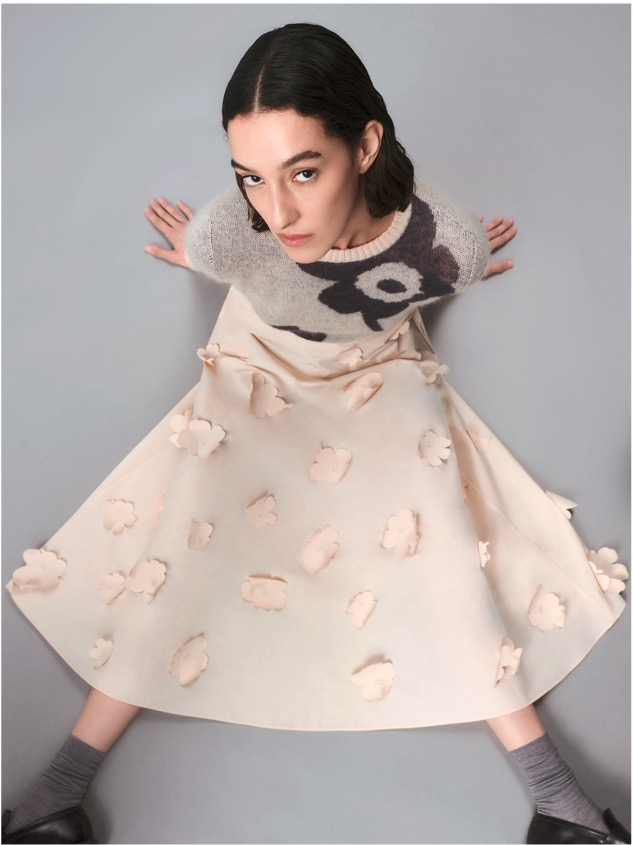
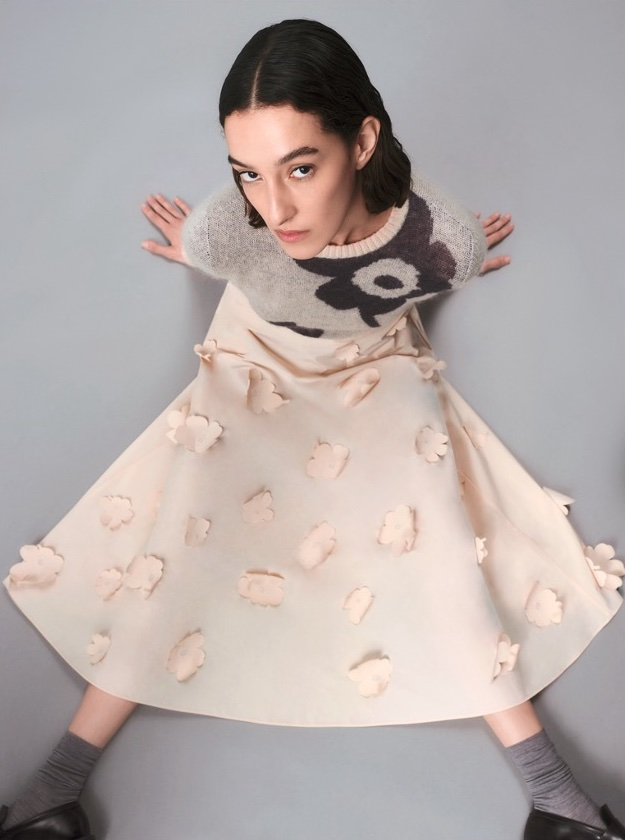
image grid

diff --git a/client/src/components/LookBook/ProductSection.tsx b/client/src/components/LookBook/ProductSection.tsx
@@ -5,28 +5,43 @@ import Image from 'next/image';
 import type { Product } from '@/context/ProductContext';
 import type BrandImage from '../../../types/BrandImage';
 import ImageGrid from './ImageGrid';
+import Heading from '../basic/Heading';
 
 type ProductSectionProps = {
   product: Product;
   images: BrandImage[];
+  headingText?: string;
+  paragraphText?: string;
 }
 
-const ProductSection: React.FC<ProductSectionProps> = ({ product, images }) => {
+const ProductSection: React.FC<ProductSectionProps> = ({ product, images, headingText, paragraphText }) => {
   return (
-    <section className={`lookbook-product-${product.productId} flex flex-col w-full bg-red-300 h-[calc(100vh-350px)]`}>
+    <section className={`lookbook-product-${product.productId} flex flex-col w-full h-[calc(100vh-250px)]`}>
       <div className="lookbook-content-rows flex flex-col md:flex-row w-full h-full">
         <div className="lookbook-content-left flex flex-1 items-center justify-center">
           <div className="flex flex-col w-full h-full">
-            <div className="flex flex-col" style={{ flexGrow: 7 }}>
+            <div className="flex flex-col" style={{ flexGrow: 8 }}>
               <ImageGrid images={images} />
             </div>
-            <div className="flex flex-col" style={{ flexGrow: 1 }}>
-              <p className="m-auto">lorem ipsum lorem ipsum lorem ipsum lorem ipsum</p>
-            </div>
+            {headingText && paragraphText && (
+              <div className="flex flex-col py-4 justify-end">
+                <Heading bold="semibold" level={5}>{headingText}</Heading>
+                <p className="max-w-xl text-left">{paragraphText}</p>
+              </div>
+            )}
           </div>
         </div>
-        <div className="lookbook-content-right flex flex-1 bg-purple-500">
-          right
+        <div className="lookbook-content-right flex flex-1">
+          <div className="relative flex flex-col grow">
+          <Image
+            src={images[0].src}
+            alt={images[0].alt}
+            layout="fill"
+            objectFit="cover"
+            objectPosition="top"
+            className="absolute inset-0 p-2"
+          />
+        </div>
         </div>
       </div>
     </section>

diff --git a/client/src/components/LookBook/ImageGrid.tsx b/client/src/components/LookBook/ImageGrid.tsx
@@ -17,16 +17,53 @@ const ImageGrid: React.FC<ImageGridProps> = ({ images }) => {
   return (
     <div className="flex flex-row grow">
       <div className="relative flex flex-col grow">
-        <Image
-          src={images[0].src}
-          alt={images[0].alt}
-          layout="fill"
-          objectFit="cover"  // Use "cover" if you want the image to fill the entire div potentially cropping it
-          className="absolute inset-0" // Positioning the image absolutely to fill the container
-        />
+        {/* Left big image */}
+          <Image
+            src={images[0].src}
+            alt={images[0].alt}
+            layout="fill"
+            objectFit="cover"
+            objectPosition="top"
+            className="absolute inset-0 p-2"
+          />
       </div>
-      <div className="flex flex-col grow bg-purple-300">
-        {/* Other content or images */}
+      <div className="flex flex-col grow">
+        <div className="relative flex flex-row grow">
+          {/* Right side top solo image */}
+          <Image
+            src={images[1].src}
+            alt={images[1].alt}
+            layout="fill"
+            objectFit="cover"
+            objectPosition="top"
+            className="absolute inset-0 p-2"
+          />
+        </div>
+        <div className="flex flex-row grow">
+          {/* Bottom image pair */}
+          <div className="relative flex flex-col grow">
+            {/* Bottom image 1 */}
+            <Image
+              src={images[2].src}
+              alt={images[2].alt}
+              layout="fill"
+              objectFit="cover"
+              objectPosition="top"
+              className="absolute inset-0 p-2"
+            />
+          </div>
+          <div className="relative flex flex-col grow">
+            {/* Bottom image 2 */}
+            <Image
+              src={images[3].src}
+              alt={images[3].alt}
+              layout="fill"
+              objectFit="cover"
+              objectPosition="top"
+              className="absolute inset-0 p-2"
+            />
+          </div>
+        </div>
       </div>
     </div>
   );

diff --git a/client/src/components/LookBook/ProductCatalog.tsx b/client/src/components/LookBook/ProductCatalog.tsx
@@ -10,9 +10,17 @@ const ProductCatalog: React.FC= () => {
   console.log('Products:', products);
 
   return <div className="flex flex-col space-y-8 w-full md:px-8 px-2">
-    {products.map(product => {
+    {products.map((product, index) => {
       const images = getImagesForProduct(product.productId);
-      return <ProductSection key={product.productId} product={product} images={images} />;
+      return (
+        <ProductSection
+          key={product.productId}
+          product={product}
+          images={images}
+          headingText={index === 0 ? 'Inspired by Unikko and monumentalism' : undefined}
+          paragraphText={index === 0 ? 'The year 2024 marks the 60th anniversary of Unikko, one of the most recognized Marimekko print designs in the world. Unikko was created by Maija Isola for Marimekko in 1964 and has since become an international icon of print design.' : undefined}
+        />
+      );
     })}
   </div>;
 };

diff --git a/client/src/components/basic/Heading.tsx b/client/src/components/basic/Heading.tsx
@@ -10,7 +10,7 @@ type HeadingProps = {
 const Heading: React.FC<HeadingProps> = ({ level, children, bold = 'normal', capitalize }) => {
 
   function renderHeading() {
-    const baseClass = `m-4 ${capitalize ? 'uppercase' : ''} font-${bold}`;
+    const baseClass = `${capitalize ? 'uppercase' : ''} font-${bold}`;
     switch (level) {
       case 1:
         return <h1 className={`text-4xl lg:text-6xl ${baseClass}`}>{children}</h1>;

diff --git a/client/src/components/LookBook/lookbook.css b/client/src/components/LookBook/lookbook.css
@@ -1,15 +1,6 @@
 .image-container {
-
-  width: 100%;
-
-  > div {
-    position: unset !important;
-  }
-
-  .image {
-    object-fit: contain;
-    width: 100% !important;
-    position: relative !important;
-    height: unset !important;
-  }
+  width: 300px;
+  height: 400px;
+  position: relative;
+  overflow: hidden;
 }

diff --git a/client/src/components/LookBook/images.ts b/client/src/components/LookBook/images.ts
@@ -62,7 +62,7 @@ export const images: BrandImage[] = [
     productId: "093441-219",
   },
   {
-    src: "/brandImages/pikkuinenUnikko/pikkuinen_unikko_2.jpg",
+    src: "/brandImages/pikkuinenUnikko/pikkuinen_unikko_3.jpg",
     alt: "Pikkuinen Unikko 3",
     productId: "093441-219",
   },
